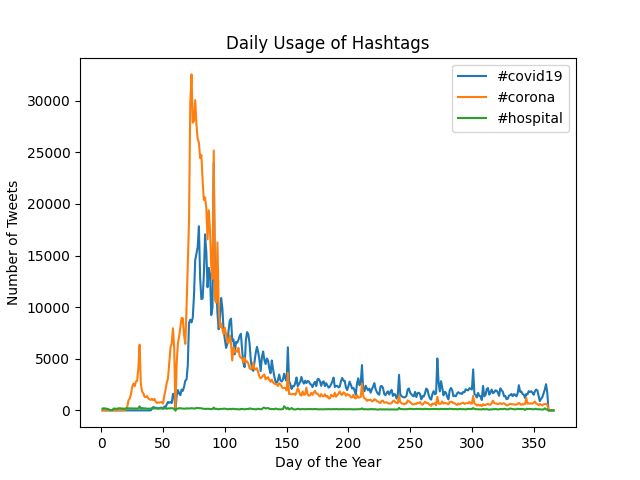
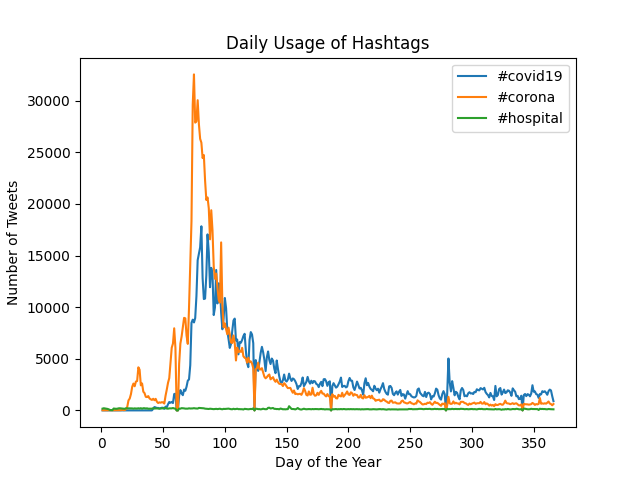
mostly2

Changed region(s): [[0.2188, 0.1562, 0.875, 0.875], [0.1875, 0.7188, 0.2188, 0.7812], [0.3125, 0.8438, 0.3438, 0.875]]

diff --git a/src/alternative_reduce.py b/src/alternative_reduce.py
@@ -23,7 +23,7 @@ def scan_data_files(data_folder, hashtags):
             month_day = file_name.split('-')[1:3]
             month = int(month_day[0])
             day = int(month_day[1].split('.')[0])
-            day_of_year = (month - 1) * 30 + day
+            day_of_year = (month - 1) * 31 + day  # Use 31 days per month to avoid issues with different month lengths
             daily_data = extract_data_from_file(file_path, hashtags)
             for hashtag, count in daily_data.items():
                 all_data[hashtag][day_of_year] += count
@@ -34,7 +34,6 @@ def plot_data(data, hashtags):
     for hashtag in hashtags:
         counts = [data[hashtag].get(day, 0) for day in days]
         plt.plot(days, counts, label=hashtag)
-    
     plt.xlabel('Day of the Year')
     plt.ylabel('Number of Tweets')
     plt.title('Daily Usage of Hashtags')
